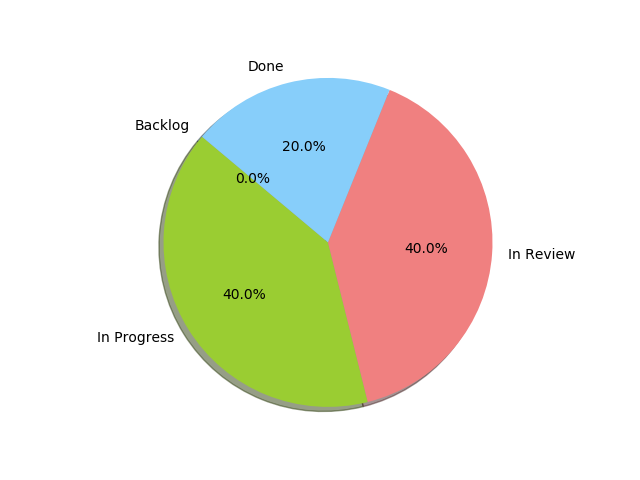
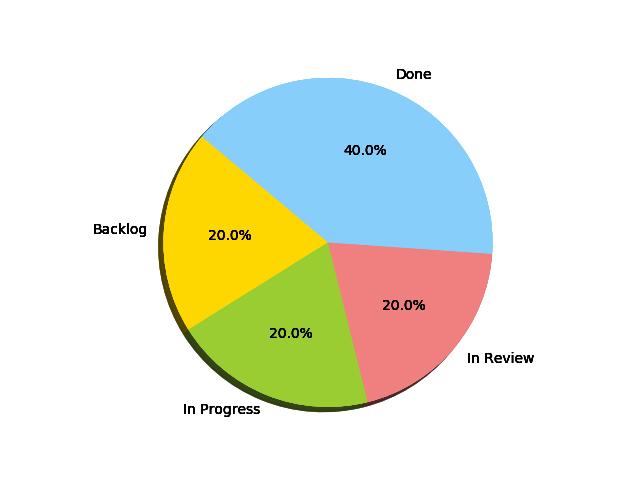
Implementing Insights JS Chart Visibility

diff --git a/templates/index.html b/templates/index.html
@@ -4,5 +4,57 @@
     {{ super() }}
 {% endblock %}
 {% block content %}
-    <img src={{ fig1 }}>
+
+
+    <div class="row">
+        <div class="col-6">
+            <canvas id="card_list_count"></canvas>
+            <script>
+                ctx = document.getElementById('card_list_count').getContext('2d');
+                chart = new Chart(ctx, {
+                    type: 'pie',
+                    data: {
+                        datasets: [{
+                            label: 'Colors',
+                            data: [{{ clc[0] }}, {{ clc[1] }}, {{ clc[2] }}, {{ clc[3] }}],
+                            backgroundColor: ["#007bff", "#28a745", "#17a2b8", "#ffc107"]
+                        }],
+                        labels: ['Backlog', 'In Progress', 'In Review', 'Done']
+                    },
+                    options: {
+                        responsive: true,
+                        title: {
+                            display: true,
+                            text: "What is the state of all cards?"
+                        }
+                    }
+                });
+            </script>
+        </div>
+        <div class="col-6">
+            <canvas id="board_card_count"></canvas>
+            <script>
+                ctx = document.getElementById('board_card_count').getContext('2d');
+                chart = new Chart(ctx, {
+                    type: 'bar',
+                    data: {
+                        datasets: [{
+
+                            data: [{{ clc[0] }}, {{ clc[1] }}, {{ clc[2] }}, {{ clc[3] }}],
+                            backgroundColor: ["#007bff", "#28a745", "#17a2b8", "#ffc107"]
+                        }],
+                        labels: ['Backlog', 'In Progress', 'In Review', 'Done']
+                    },
+                    options: {
+                        responsive: true,
+                        title: {
+                            display: true,
+                            text: "What is the state of all cards?"
+                        }
+                    }
+                });
+            </script>
+        </div>
+    </div>
+
 {% endblock %}

diff --git a/templates/base.html b/templates/base.html
@@ -5,13 +5,17 @@
         <title>{% block title %}{% endblock %} - Work.IT</title>
         <link rel="stylesheet" href="https://maxcdn.bootstrapcdn.com/bootstrap/4.3.1/css/bootstrap.min.css">
         <link href="//maxcdn.bootstrapcdn.com/font-awesome/4.7.0/css/font-awesome.min.css" rel="stylesheet">
+        <link rel="stylesheet" href="../static/insights.css">
         <script src="https://ajax.googleapis.com/ajax/libs/jquery/3.4.0/jquery.min.js"></script>
         <script src="https://cdnjs.cloudflare.com/ajax/libs/popper.js/1.14.7/umd/popper.min.js"></script>
         <script src="https://maxcdn.bootstrapcdn.com/bootstrap/4.3.1/js/bootstrap.min.js"></script>
-        <script src="https://d3js.org/d3.v5.min.js"></script>
+        <script src="https://cdn.jsdelivr.net/npm/chart.js@2.8.0"></script>
     {% endblock %}
 </head>
-<body>
+<body class="fade">
+<script>
+    document.body.className = 'fade';
+</script>
 <nav class="navbar navbar-expand-sm bg-dark navbar-dark sticky-top">
     <a class="navbar-brand text-success" href="/">Work.IT</a>
     <ul class="navbar-nav">
@@ -65,5 +69,10 @@
 
     {% endblock %}
 </div>
+<script>
+    document.addEventListener("DOMContentLoaded", function (e) {
+        document.body.className = '';
+    });
+</script>
 </body>
 </html>

diff --git a/static/insights.css b/static/insights.css
@@ -1,0 +1,11 @@
+body {
+    opacity: 1;
+    transition: 0.7s opacity;
+
+    background-color: #f1f1f1; /* Used if the image is unavailable */
+}
+
+body.fade {
+    opacity: 0;
+    transition: none;
+}

diff --git a/insights.py b/insights.py
@@ -1,5 +1,6 @@
 from scripts import *
 import matplotlib.pyplot as plt
+import os
 
 teams = get_teams()
 users = get_users()
@@ -8,21 +9,16 @@ boards = get_boards()
 archive = get_archive()
 
 
-def card_list_pie_plot():
-    backl, inpro, inrev, done, sizes = 0, 0, 0, 0, []
-    labels = 'Backlog', 'In Progress', 'In Review', 'Done'
-    colors = ['gold', 'yellowgreen', 'lightcoral', 'lightskyblue']
+def card_list_count():
+    result = [0, 0, 0, 0]
     for card in cards:
-        if card['label'] == 'Backlog': backl += 1
-        if card['label'] == 'In Progress': inpro += 1
-        if card['label'] == 'In Review': inrev += 1
-        if card['label'] == 'Done': done += 1
+        if card['label'] == 'Backlog': result[0] += 1
+        if card['label'] == 'In Progress': result[1] += 1
+        if card['label'] == 'In Review': result[2] += 1
+        if card['label'] == 'Done': result[3] += 1
+    print('card_list_count: ', result)
+    return result
 
-    sizes.append(backl)
-    sizes.append(inpro)
-    sizes.append(inrev)
-    sizes.append(done)
-
-    plt.pie(sizes, labels=labels, colors=colors, autopct='%1.1f%%', shadow=True, startangle=140)
-    plt.axis('equal')
-    return plt
+def board_card_count():
+    for board in boards:
+        pass

diff --git a/app.py b/app.py
@@ -3,6 +3,7 @@ import sqlite3
 from flask import Flask
 from scripts import *
 from insights import *
+import time
 
 app = Flask(__name__)
 conn = sqlite3.connect('database.db')
@@ -10,9 +11,8 @@ conn = sqlite3.connect('database.db')
 
 @app.route('/')
 def index():
-    fig1 = card_list_pie_plot()
-    fig1.savefig('static/card_list_pie_plot.png')
-    return render_template('index.html', fig1='static/card_list_pie_plot.png')
+    clc = card_list_count()
+    return render_template('index.html', clc=clc)
 
 
 @app.route('/create_user')
@@ -313,5 +313,8 @@ def goto_kanban():
 
 
 if __name__ == '__main__':
+    app.config['ENV'] = 'development'
     app.config['DEBUG'] = True
+    app.config['TESTING'] = True
     app.run(debug=True)
+    start_time = time.time()
